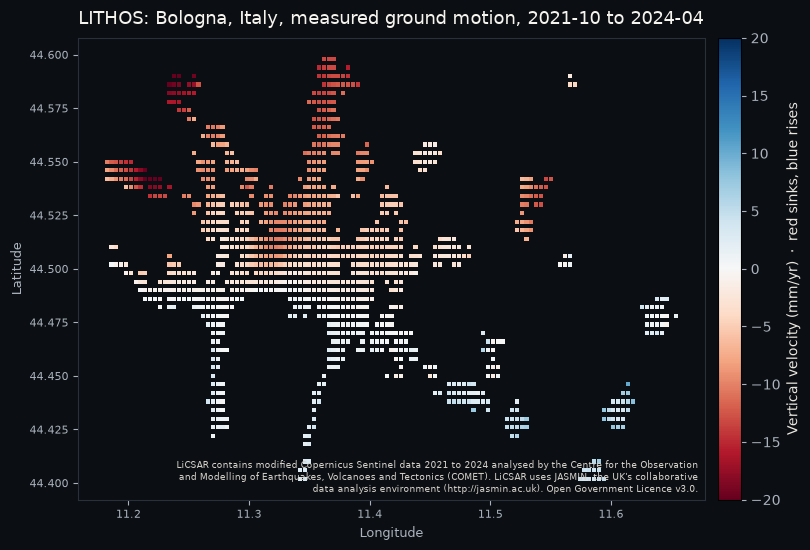
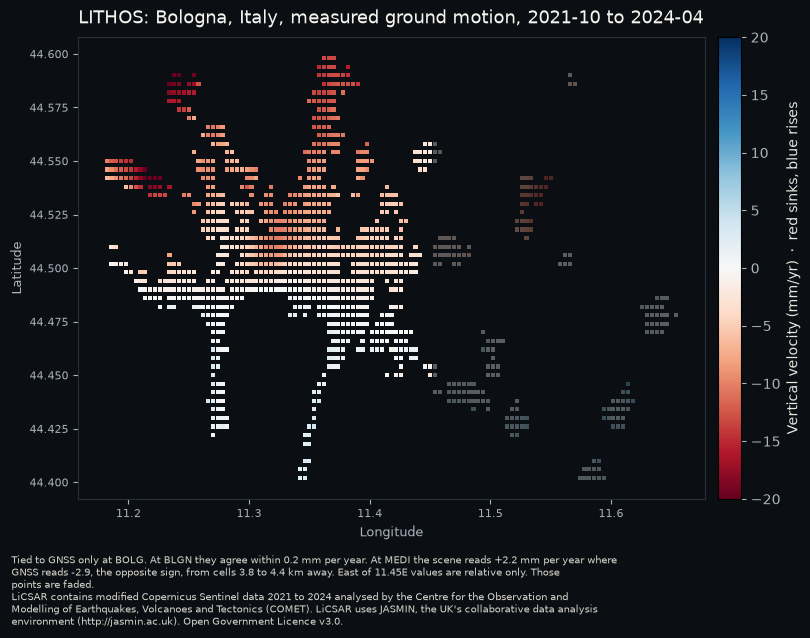
README image: faded relative points, the caveat and the full credit below the map

diff --git a/packages/ingest/lithos_ingest/render_hero.py b/packages/ingest/lithos_ingest/render_hero.py
@@ -8,6 +8,7 @@ Requires matplotlib, which is in the dev extras and not a runtime dependency.
 from __future__ import annotations
 
 import json
+import textwrap
 from pathlib import Path
 
 from lithos_ingest.base import data_dir
@@ -25,16 +26,17 @@ def render(out_path: Path | None = None) -> Path:
     geo = json.loads((scene / "points.geojson").read_text(encoding="utf-8"))
     meta = json.loads((scene / "meta.json").read_text(encoding="utf-8"))
 
-    lons, lats, vels = [], [], []
+    lons, lats, vels, alphas = [], [], [], []
     for f in geo["features"]:
         lons.append(f["geometry"]["coordinates"][0])
         lats.append(f["geometry"]["coordinates"][1])
         vels.append(f["properties"].get("vertical_velocity") or 0.0)
+        alphas.append(0.35 if f["properties"].get("datum_note") else 1.0)
 
     fig, ax = plt.subplots(figsize=(8.2, 5.6), dpi=100)
     fig.patch.set_facecolor("#0b0e12")
     ax.set_facecolor("#0b0e12")
-    sc = ax.scatter(lons, lats, c=vels, cmap="RdBu", vmin=-20, vmax=20, s=9, marker="s", edgecolors="none")
+    sc = ax.scatter(lons, lats, c=vels, cmap="RdBu", vmin=-20, vmax=20, s=9, marker="s", edgecolors="none", alpha=alphas)
     cb = plt.colorbar(sc, ax=ax, fraction=0.035, pad=0.02)
     cb.set_label("Vertical velocity (mm/yr)  ·  red sinks, blue rises", color="#e9e6df")
     cb.ax.yaxis.set_tick_params(color="#aab3bd")
@@ -52,17 +54,21 @@ def render(out_path: Path | None = None) -> Path:
         spine.set_color("#283039")
     ax.set_xlabel("Longitude", color="#aab3bd", fontsize=9)
     ax.set_ylabel("Latitude", color="#aab3bd", fontsize=9)
-    ax.text(
-        0.99,
-        0.01,
-        "LiCSAR contains modified Copernicus Sentinel data 2021 to 2024 analysed by the Centre for the "
-        "Observation\nand Modelling of Earthquakes, Volcanoes and Tectonics (COMET). LiCSAR uses JASMIN, "
-        "the UK's collaborative\ndata analysis environment (http://jasmin.ac.uk). Open Government Licence v3.0.",
-        transform=ax.transAxes,
-        ha="right",
-        va="bottom",
+    caveat = "\n".join(textwrap.wrap(meta.get("caveat", "") + " Those points are faded.", 118))
+    credit = (
+        "LiCSAR contains modified Copernicus Sentinel data 2021 to 2024 analysed by the Centre for "
+        "the Observation and Modelling of Earthquakes, Volcanoes and Tectonics (COMET). LiCSAR uses "
+        "JASMIN, the UK's collaborative data analysis environment (http://jasmin.ac.uk). Open "
+        "Government Licence v3.0."
+    )
+    fig.text(
+        0.02,
+        0.0,
+        caveat + "\n" + "\n".join(textwrap.wrap(credit, 118)),
+        ha="left",
+        va="top",
         color="#d6d3cc",
-        fontsize=6.5,
+        fontsize=7,
     )
 
     out_path = out_path or repo_root / "docs" / "assets" / "hero.png"
